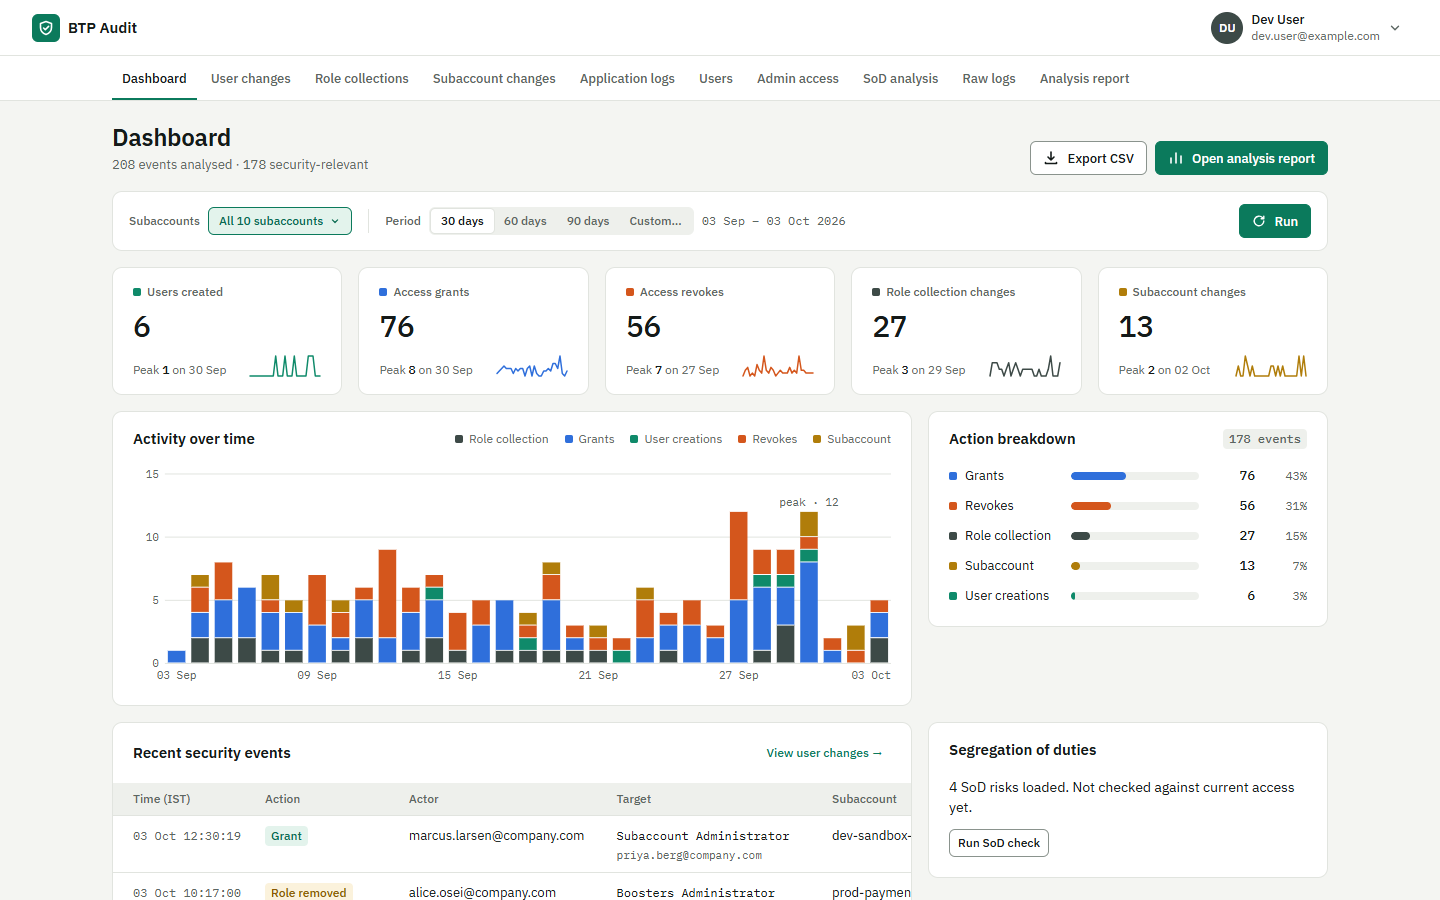
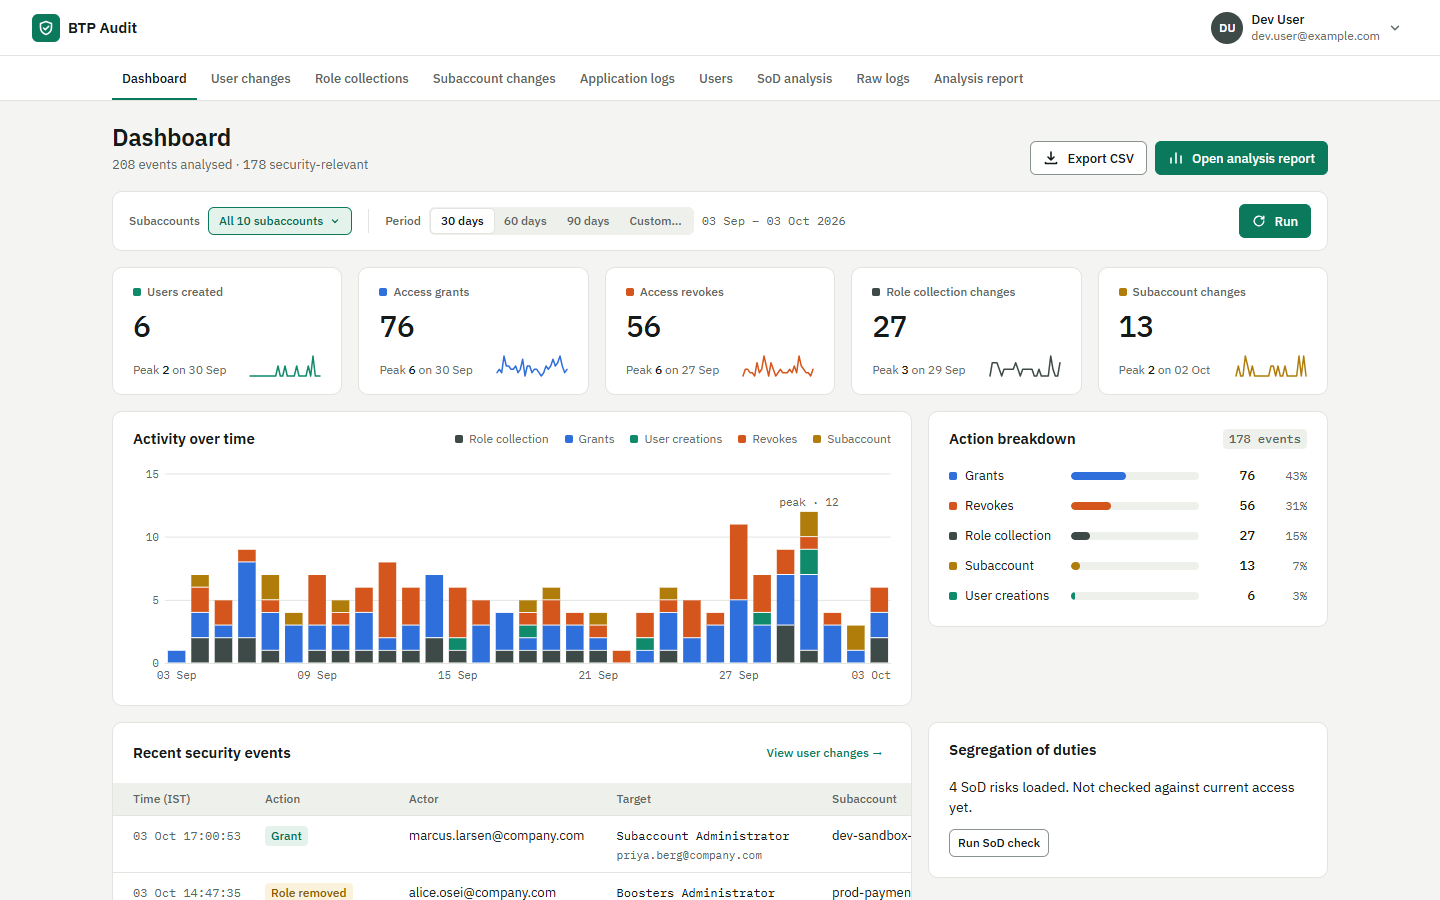
Showcase: three apps, Access Explorer, readable logs for more services, refreshed screenshots

diff --git a/README.md b/README.md
@@ -2,11 +2,11 @@
 
 **Who changed what in your SAP BTP landscape, and who can do it right now?**
 
-BTP Audit Trail Analyzer is a Node.js application running on SAP BTP, Cloud
-Foundry environment. It reads the audit logs and authorization data of several
-subaccounts and turns them into answers an auditor can read: plain-language
-logs, access changes, segregation-of-duties (SoD) risks and an EarlyWatch-style
-report.
+BTP Audit Analyzer is a set of three Node.js apps on SAP BTP, Cloud Foundry
+environment, behind one login and one launchpad. It reads the audit logs and
+the authorization data of several subaccounts and turns them into answers an
+auditor can read: plain-language logs, access changes, segregation-of-duties
+(SoD) risks, current role assignments and an EarlyWatch-style report.
 
 > This repository is a **showcase only** — features and screenshots. The source
 > code is in a private repository. **Want access?** Comment on the LinkedIn post
@@ -18,13 +18,28 @@ subaccounts).
 
 ---
 
+## The three apps
+
+| App | For | Role collection |
+|---|---|---|
+| **Audit Trail Analyzer** | Audit logs, access changes, SoD analysis, analysis report | `Central_Audit_Viewer` |
+| **Access Explorer** | Who holds which role collection, and what each contains, per subaccount | `Central_Audit_Viewer` |
+| **SoD risk admin** | Maintain the SoD risks the analyzer checks | `SOD_Administrator` (edit) / `SOD_Viewer` (read-only) |
+
+A launchpad shows each user only the apps their role collections allow.
+
+---
+
 ## Features
 
 **Human-readable audit logs.** Raw Audit Log Retrieval records become
-sentences — *"jane deployed integration flow "Order_Sync" in Prod at 1 Oct 2026,
-09:00 UTC (completed)."* — with every changed field shown as old → new and
-secrets hidden. Covers Cloud Integration, API Management, Event Mesh, Trading
-Partner Management, Build / Business Application Studio and more.
+sentences — *"ann deployed "Order_Sync" 1.0.0"*, *"ann updated integration
+package "Test""*, *"ann downloaded data store entry "HT-1037" of data store
+"Products""* — with every changed field shown as old → new and secrets hidden.
+Built against SAP's documented audit events of **Cloud Integration / Integration
+Suite**, **API Management**, **Event Mesh**, **Build Work Zone**, **Build Process
+Automation**, **Cloud Transport Management**, the **Destination service**,
+**XSUAA** and more; start / completion pairs are merged into one entry.
 
 **Access changes across subaccounts.** User creations, role collection grants
 and revokes, role collection and subaccount configuration changes, with
@@ -37,20 +52,27 @@ maintenance, trust configuration maintenance, application maintenance — with
 the role collection and role that grant it. Matching is by *role*, so
 customer-named role collections are caught too.
 
-**SoD risk admin.** A second app to maintain the SoD risks (CSV upload and
-download, SAP defaults built in), with an editor role and a read-only viewer
-role.
+**Access Explorer.** For every configured subaccount: a one-to-one *user →
+role collection* table (user, user ID, origin, status, role collection and its
+description) — including users who exist but hold **no role collection** — and
+a *role collection → role* table (role collection, description, role, role
+description, role template). The same email under two identity providers is
+shown as the two accounts it is.
 
-**Service instance insights.** Every service instance with who created it,
-its service keys (name, creator, date) and its app bindings — from Service
-Manager and the Cloud Foundry API.
+**SoD risk admin.** Maintain the SoD risks (CSV upload and download, SAP
+defaults built in), with an editor role and a read-only viewer role.
+
+**Service instance insights.** Every service instance with who created it, its
+service keys (name, creator, date) and its app bindings — from Service Manager
+and the Cloud Foundry API.
 
 **Analysis report.** An EarlyWatch-style assessment with key figures, trends,
 alert overview, security concerns and findings — exportable to PDF and CSV.
 
 **Secure by design.** Single sign-on through XSUAA, role collections per app,
-a launchpad that only shows the apps a user may open, and no credentials in the
-app: every outbound call goes through the BTP Destination service.
+a launchpad that only shows the apps a user may open, read-only access to every
+SAP API, and no credentials in the app: every outbound call goes through the
+BTP Destination service.
 
 ---
 
@@ -76,6 +98,14 @@ app: every outbound call goes through the BTP Destination service.
 
 ![SoD analysis](screenshots/sod-analysis.png)
 
+**Access Explorer** — users and their role collections:
+
+![Access Explorer: users and role collections](screenshots/access-explorer-users.png)
+
+… and role collections with their roles, per subaccount:
+
+![Access Explorer: role collections per subaccount](screenshots/access-explorer-collections.png)
+
 **Analysis report**
 
 ![Analysis report](screenshots/analysis-report.png)
@@ -95,9 +125,9 @@ app: every outbound call goes through the BTP Destination service.
 ## Built with
 
 SAP BTP Cloud Foundry runtime · SAP Application Router · SAP Authorization and
-Trust Management (XSUAA) · SAP Destination service · SAP Audit Log Retrieval
-API · Authorization and Trust Management API · SAP Service Manager · Cloud
-Foundry v3 API · Node.js / Express
+Trust Management (XSUAA, SCIM and authorization APIs) · SAP Destination
+service · SAP Audit Log Retrieval API · SAP Service Manager · SAP Cloud
+Management service · Cloud Foundry v3 API · Node.js / Express
 
 ## Access
 
